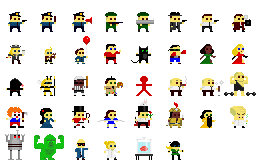
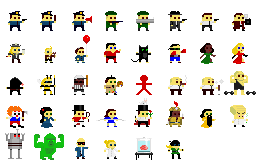
Converted tiles to 16x16 and improved 32x32 characters.

diff --git a/lib/main.rb b/lib/main.rb
@@ -25,9 +25,9 @@ class WorldObject < GameObject
   attr_accessor :z
 
   OUTLINE_SCALE = Image::THIN_OUTLINE_SCALE
-  OUTLINE_OFFSET_X = OUTLINE_SCALE * -0.5
-  OUTLINE_OFFSET_Y = OUTLINE_SCALE * 0.75
-  OUTLINE_COLOR = Color.rgb(200, 200, 200)
+  OUTLINE_OFFSET_X = OUTLINE_SCALE * -0.25
+  OUTLINE_OFFSET_Y = 1 + OUTLINE_SCALE * 0.75
+  OUTLINE_COLOR = Color.rgb(50, 50, 50)
   
   def initialize(options = {})    
     options = {
@@ -57,11 +57,11 @@ class WorldObject < GameObject
   end
  
   def draw
-    @@shadow.draw_rot x, y, y - z, 0, 0.5, 0.5, 0.6, 0.3
-    @image.draw_rot x, y, y - z, 0, 0.5, 1
+    @@shadow.draw_rot x, y, y - z, 0, 0.5, 0.5, 1, 0.5
+    @image.draw_rot x, y + 1, y - z, 0, 0.5, 1, factor_x
 
     @image.thin_outline.draw_rot x + OUTLINE_OFFSET_X, y + OUTLINE_OFFSET_Y, y - z, 0, 0.5, 1,
-                                 OUTLINE_SCALE, OUTLINE_SCALE, OUTLINE_COLOR
+                                 OUTLINE_SCALE * factor_x, OUTLINE_SCALE, OUTLINE_COLOR
   end
 end
 
@@ -98,8 +98,12 @@ end
 
 class Tree < StaticObject
   def initialize(grid_position, options = {})
+    unless defined? @@sprites
+      @@sprites = Image.load_tiles($window, File.expand_path("media/images/characters_32x32.png", EXTRACT_PATH), 32, 32, true)
+    end
+
     options = {
-        image: Image["characters/#{["ring_master", "reporter", "spandexman", "octobrain", "boss_cigar1"].sample}.png"],
+        image: @@sprites.sample,
         factor_x: [-1, 1].sample,
     }.merge! options
      
@@ -188,12 +192,15 @@ class Tile < GameObject
   class Concrete < Tile
   end
   
-  WIDTH, HEIGHT = 16, 8
+  WIDTH, HEIGHT = 32, 16
     
   attr_reader :objects, :z
   
   def initialize(grid_position, options = {})
-    options[:image] = Image["tiles/#{Inflector.underscore(Inflector.demodulize(self.class.name))}.png"]
+    unless defined? @@sprites
+      @@sprites = Image.load_tiles($window, File.expand_path("media/images/tiles.png", EXTRACT_PATH), 16, 16, true)
+    end
+    options[:image] = ([@@sprites[0]]+ [@@sprites[1]] * 5).sample
     @grid_position = grid_position
     options[:x] = (@grid_position[1] + @grid_position[0]) * WIDTH / 2
     options[:y] = (@grid_position[1] - @grid_position[0]) * HEIGHT / 2
@@ -244,16 +251,16 @@ class World < GameState
     @fps_text = ""
 
     @camera_offset_x, @camera_offset_y = [0, @map.to_rect.center_y]
-    @zoom = 4
+    @zoom = 2
 
     @font = Font.new $window, default_font_name, 24
 
     on_input :wheel_down do
-      @zoom /= 2 if @zoom > 2
+      @zoom /= 2 if @zoom > 1
     end
 
     on_input :wheel_up do
-      @zoom *= 2 if @zoom < 8
+      @zoom *= 2 if @zoom < 4
     end
   end
   

diff --git a/lib/texplay_ext/image.rb b/lib/texplay_ext/image.rb
@@ -100,7 +100,7 @@ module Gosu
     end
 
 
-    THIN_OUTLINE_SCALE = 0.25
+    THIN_OUTLINE_SCALE = 0.5
     TRANSPARENT_PROXY_COLOR = [1, 0, 1, 1]
     def thin_outline
       unless defined? @thin_outline
